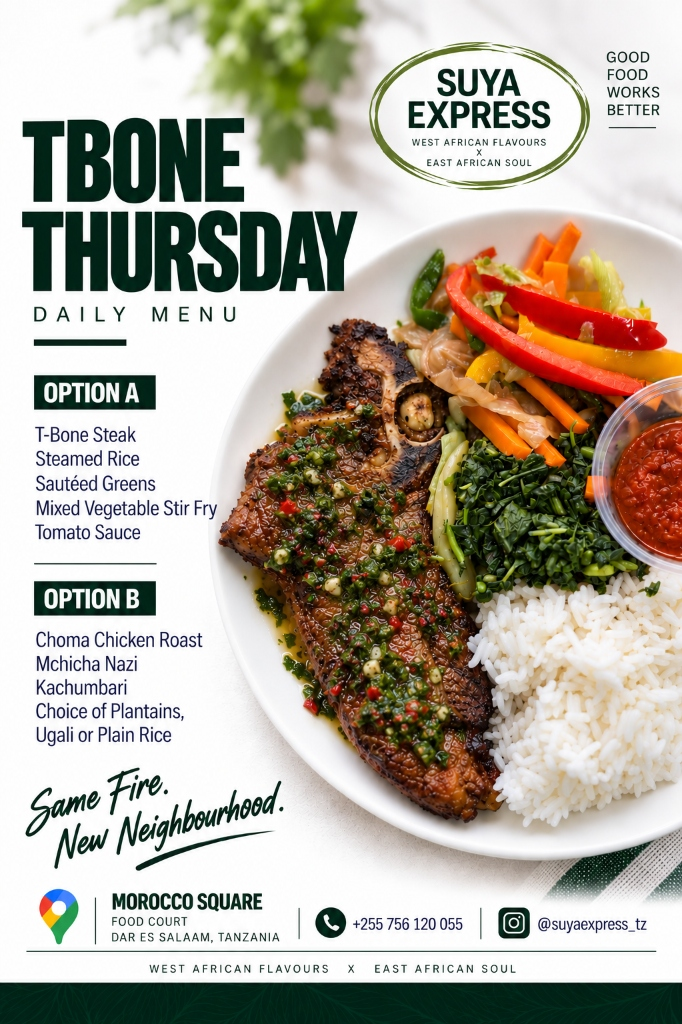
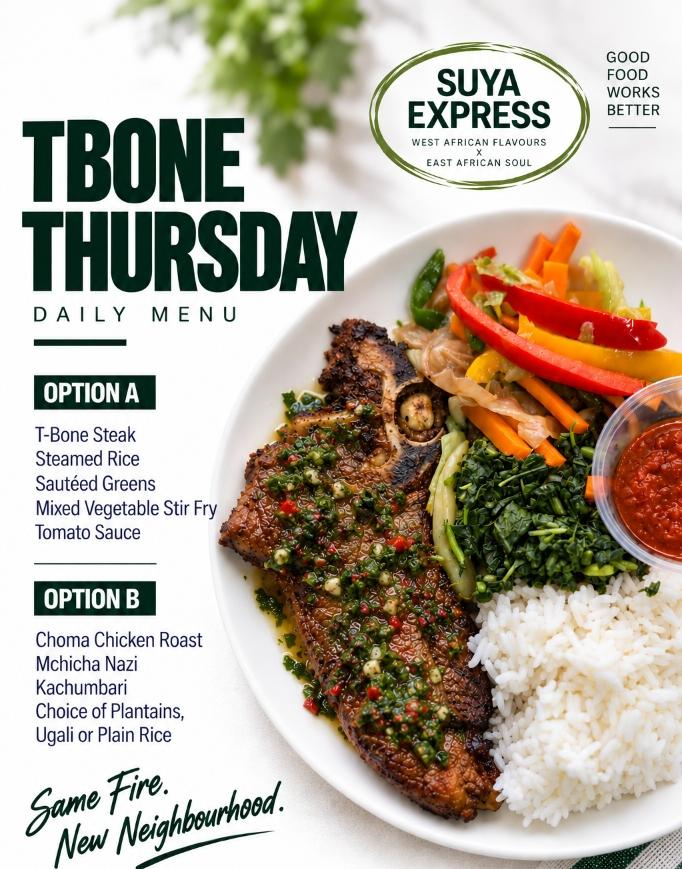
Remove menu QR code and crop menu images

diff --git a/index.html b/index.html
@@ -565,15 +565,21 @@
     }
 
     .day-photo {
-      border-radius: 6px;
+      border-radius: 16px;
       overflow: hidden;
       box-shadow: 0 22px 44px rgba(36, 31, 22, 0.18);
+      transition: transform 0.3s ease, box-shadow 0.3s ease;
+    }
+
+    .day-photo:hover {
+      transform: translateY(-4px);
+      box-shadow: 0 28px 56px rgba(36, 31, 22, 0.25);
     }
 
     .day-photo img {
       width: 100%;
       height: auto;
-      aspect-ratio: 2/3;
+      display: block;
       object-fit: cover;
     }
 
@@ -929,14 +935,6 @@
           </div>
           <p class="section-desc">Fresh flavours, great days. A new plate every weekday, each with two ways to have it —
             and a complimentary mini juice on the side.</p>
-          <div style="margin-top:18px; display:flex; align-items:center; gap:14px;">
-            <a href="#menu"
-              style="display:inline-block; background:#fff; padding:6px; border-radius:8px; box-shadow:0 2px 8px rgba(0,0,0,0.10);">
-              <img src="menu-qrcode.png" alt="Scan to view menu" style="width:90px; height:90px; display:block;">
-            </a>
-            <span style="font-size:0.85rem; color:#8a8172; max-width:180px;">Scan the QR code to jump straight to our
-              weekly menu.</span>
-          </div>
         </div>
 
         <div class="day-tabs" role="tablist" aria-label="Choose a day">
